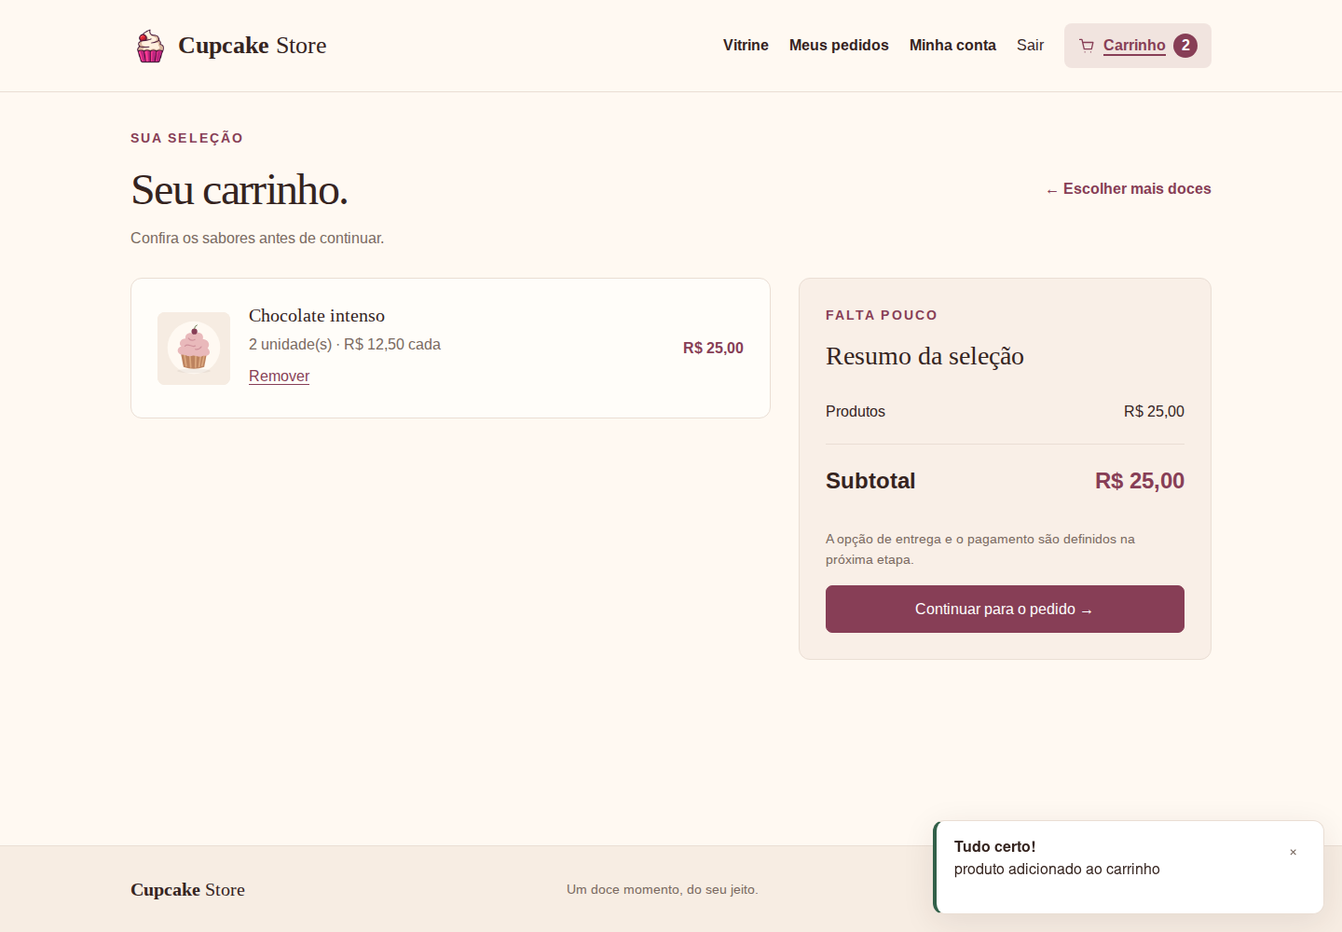
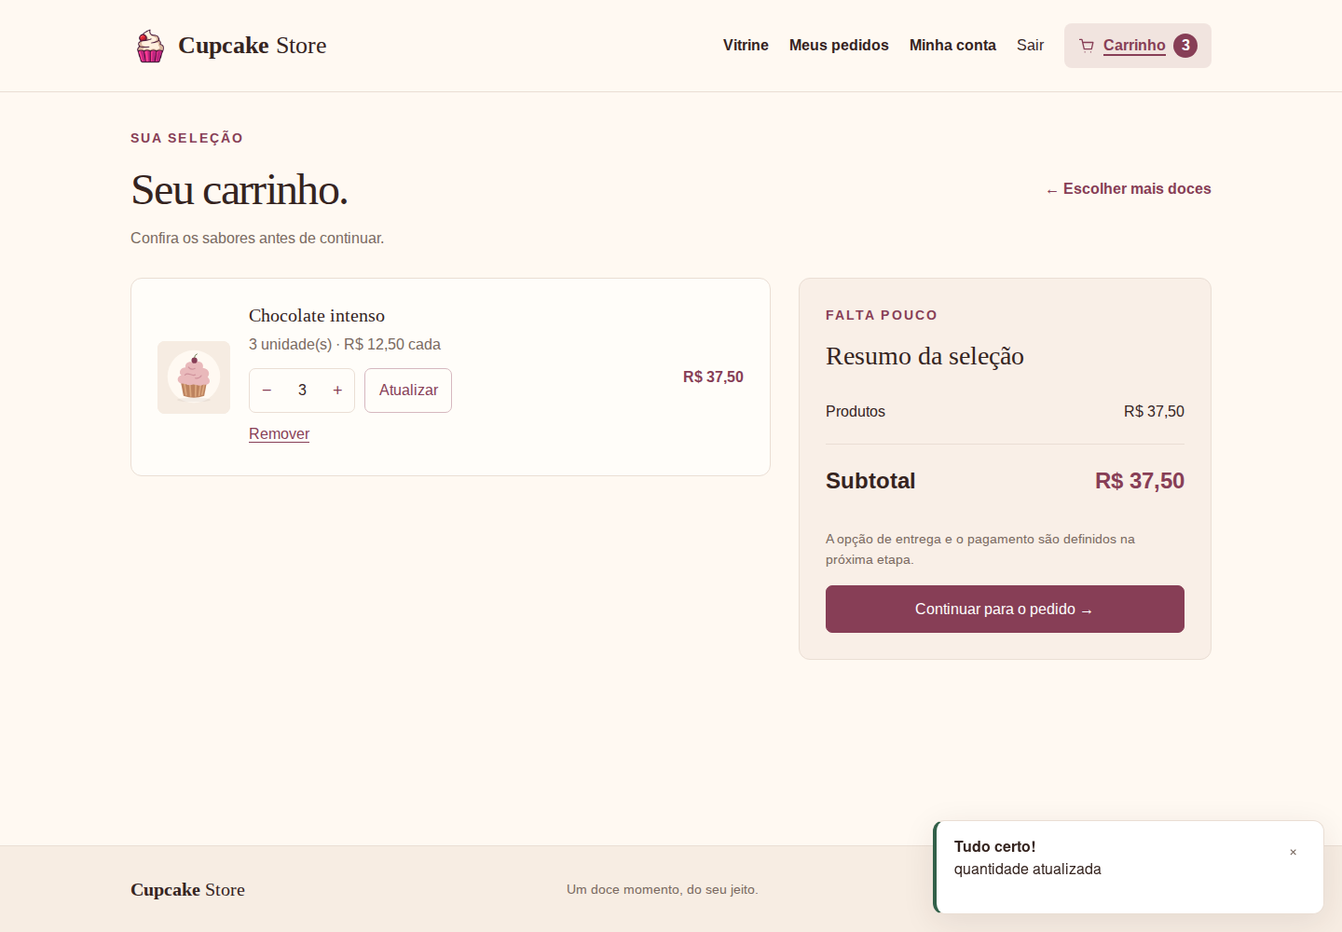
feat(storefront): streamline cart editing and order fulfillment

diff --git a/views/users/users.html b/views/users/users.html
@@ -1,112 +1,52 @@
 <div class="content-header">
-    <div class="container">
-        <div class="row mb-2">
-            <div class="col-sm-6">
-                <h1 class="m-0">Usuários Registrados</h1>
-            </div>
-            <div class="col-sm-6">
-                <ol class="breadcrumb float-sm-right">
-                    <li class="breadcrumb-item">
-                        <a href="/dashboard">Visão geral</a>
-                    </li>
-                    <li class="breadcrumb-item active">Usuários Registrados</li>
-                </ol>
-            </div>
-        </div>
+    <div class="container d-flex justify-content-between align-items-start flex-wrap">
+        <div><h1>Usuários</h1><p class="text-muted">Contas de clientes e acesso da equipe.</p></div>
+        <a href="/users/create" class="btn btn-primary mb-3">Adicionar usuário</a>
     </div>
 </div>
-<section class="content ui-form-page">
+<section class="content">
     <div class="container">
-        <div class="row">
-            <div class="col-12 mx-auto">
-                <div class="card card-primary">
-                    <div class="card-header">
-                        <h3 class="card-title mb-2">Lista de Usuários</h3>
-                        <div class="card-tools">
-                            <form id="filters" method="get">
-                                <div class="row">
-                                    <div class="col-12 mb-2">
-                                        <div class="input-group m-0">
-                                            <input hidden="hidden" id="limit" name="limit"
-                                                   type="text" value="{{.Object.Filter.Pagination.Limit}}">
-                                            <input class="form-control" id="q" name="q" aria-label="Pesquisar usuários por e-mail"
-                                                   placeholder="Pesquisar Usuário" type="text">
-                                            <div class="input-group-append">
-                                                <button class="btn btn-default" type="submit" aria-label="Pesquisar usuários">
-                                                    <i class="fas fa-search"></i>
-                                                </button>
-                                            </div>
-                                        </div>
-                                    </div>
-                                </div>
-                            </form>
-                        </div>
+        <div class="card">
+            <div class="card-body border-bottom">
+                <form method="get" action="/users" role="search">
+                    <input type="hidden" name="limit" value="{{.Object.Filter.Pagination.Limit}}">
+                    <label for="q">Buscar por e-mail</label>
+                    <div class="input-group">
+                        <input class="form-control" type="search" id="q" name="q" value="{{.Object.Filter.User.Email}}" placeholder="E-mail do usuário">
+                        <div class="input-group-append"><button class="btn btn-outline-primary" type="submit">Buscar</button></div>
                     </div>
-                    <div class="card-body table-responsive p-0">
-                        <table class="table table-hover text-nowrap">
-                            <caption class="sr-only">Usuários cadastrados e opções de gerenciamento</caption>
-                            <thead>
-                            <tr>
-                                <th>#</th>
-                                <th>E-mail</th>
-                                <th>Criado Em</th>
-                                <th>Tipo</th>
-                                <th>Status</th>
-                                <th>Primeiro Login</th>
-                                <th>Último Login</th>
-                                <th>Opções</th>
-                            </tr>
-                            </thead>
-                            <tbody>
-                            {{range .Object.Users}}
-                            <tr>
-                                <td>{{.ID}}</td>
-                                <td>
-                                    <a href="/users/user/{{.ID}}">{{.Email}}
-                                        <br/>
-                                    </a>
-                                </td>
-                                <td>{{.CreatedAt|date "02/01/2006 15:04h"}}</td>
-                                <td>{{if .IsStaff}}
-                                    <span class="badge badge-primary">Administrador</span>
-                                    {{else}}
-                                    <span class="badge badge-secondary">Membro</span>{{end}}
-                                </td>
-                                <td>{{if .IsActive}}
-                                    <span class="badge badge-success">Ativo</span>
-                                    {{else}}
-                                    <span class="badge badge-danger">Inativo</span>{{end}}
-                                </td>
-                                <td>{{if .FirstLogin.IsZero }} N/A {{else}} {{.FirstLogin|date "02/01/2006 15:04h"}}
-                                    {{end}}
-                                </td>
-                                <td>{{if .LastLogin.IsZero }} N/A {{else}} {{.LastLogin|date "02/01/2006 15:04h"}}
-                                    {{end}}
-                                </td>
-                                <td>
-                                    {{if not .IsStaff}}
-                                    <a class="btn btn-sm btn-outline-primary mr-2" href="/users/user/{{.ID}}" aria-label="Editar usuário {{.Email}}">
-                                        <i class="fas fa-pen"></i>
-                                    </a>
-                                    <a class="btn btn-sm btn-outline-danger" href="/users/delete/{{.ID}}" aria-label="Excluir usuário {{.Email}}">
-                                        <i class="fa fa-trash"></i>
-                                    </a>
-                                    {{else}}
-                                    -
-                                    {{end}}
-                                </td>
-                            </tr>
-                            {{else}}
-                            <tr><td colspan="8" class="text-center py-5 text-muted">Nenhum usuário encontrado. Experimente outro e-mail na busca.</td></tr>
-                            {{end}}
-                            </tbody>
-                        </table>
-                    </div>
-                    {{template "snippets/pagination" (dict "Pagination" .Object.Filter.Pagination "Query" .Object.Filter.User.Email)}}
-                    <!-- /.card-body -->
-                </div>
-                <!-- /.card -->
+                    {{if .Object.Filter.User.Email}}<a href="/users" class="d-inline-block mt-2">Limpar busca</a>{{end}}
+                </form>
             </div>
+            <div class="table-responsive" tabindex="0" role="region" aria-label="Usuários cadastrados; role horizontalmente para ver todas as colunas">
+                <table class="table table-hover mb-0">
+                    <caption class="sr-only">Usuários cadastrados e opções de gerenciamento</caption>
+                    <thead><tr>
+                        <th scope="col">Conta</th>
+                        <th scope="col">Permissão</th>
+                        <th scope="col">Status</th>
+                        <th scope="col">Último acesso</th>
+                        <th scope="col">Ações</th>
+                    </tr></thead>
+                    <tbody>
+                    {{range .Object.Users}}
+                    <tr>
+                        <td><a href="/users/user/{{.ID}}"><strong>{{.Email}}</strong></a><br><small class="text-muted">#{{.ID}} · Criado em {{.CreatedAt | date "02/01/2006"}}</small></td>
+                        <td><span class="badge {{if .IsStaff}}badge-primary{{else}}badge-secondary{{end}}">{{if .IsStaff}}Administrador{{else}}Cliente{{end}}</span></td>
+                        <td><span class="badge {{if .IsActive}}badge-success{{else}}badge-danger{{end}}">{{if .IsActive}}Ativo{{else}}Inativo{{end}}</span></td>
+                        <td>{{if .LastLogin.IsZero}}Ainda não acessou{{else}}{{.LastLogin | date "02/01/2006 15:04"}}{{end}}</td>
+                        <td class="text-nowrap">
+                            <a class="btn btn-outline-primary btn-sm" href="/users/user/{{.ID}}" aria-label="Editar usuário {{.Email}}">Editar</a>
+                            {{if not .IsStaff}}<a class="btn btn-outline-danger btn-sm" href="/users/delete/{{.ID}}" aria-label="Excluir usuário {{.Email}}">Excluir</a>{{end}}
+                        </td>
+                    </tr>
+                    {{else}}
+                    <tr><td colspan="5" class="text-center py-5 text-muted">Nenhum usuário encontrado. {{if .Object.Filter.User.Email}}Experimente outro e-mail na busca.{{end}}</td></tr>
+                    {{end}}
+                    </tbody>
+                </table>
+            </div>
+            {{template "snippets/pagination" (dict "Pagination" .Object.Filter.Pagination "Query" .Object.Filter.User.Email)}}
         </div>
     </div>
 </section>

diff --git a/views/orders/order.html b/views/orders/order.html
@@ -1,20 +1,24 @@
 {{$order := .Object.Order}}
 <div class="store-container store-page">
-    <nav class="store-breadcrumb" aria-label="Você está em"><a href="/orders">Meus pedidos</a><span aria-hidden="true">/</span><span>Pedido #{{$order.ID}}</span></nav>
-    <div class="store-page-heading"><div><p class="store-eyebrow">{{$order.CreatedAt | date "02/01/2006 · 15:04"}}</p><h1>Pedido #{{$order.ID}}.</h1></div><span class="store-status{{if eq $order.Status "Cancelado"}} store-status-cancelled{{end}}">{{if and (not $order.IsDelivery) (eq $order.Status "Aguardando Envio")}}Pronto para retirada{{else}}{{$order.Status}}{{end}}</span></div>
+    <nav class="store-breadcrumb" aria-label="Você está em"><a href="/orders">{{if .Profile.User.IsStaff}}Pedidos da loja{{else}}Meus pedidos{{end}}</a><span aria-hidden="true">/</span><span>Pedido #{{$order.ID}}</span></nav>
+    <div class="store-page-heading"><div><p class="store-eyebrow">{{$order.CreatedAt | date "02/01/2006 · 15:04"}}</p><h1>Pedido #{{$order.ID}}.</h1></div><span class="store-status{{if eq $order.Status "Cancelado"}} store-status-cancelled{{end}}">{{template "snippets/order-status" $order}}</span></div>
     {{if and .Profile.User.IsStaff (ne $order.Status "Cancelado") (ne $order.Status "Entregue")}}
     <section class="store-panel store-admin-status" aria-labelledby="status-title">
         <h2 id="status-title">Atualizar andamento</h2>
+        <p class="store-help">Escolha a próxima etapa. Alterar o andamento não muda o valor nem a entrega combinados.</p>
+        {{if and (eq $order.PaymentMethod "Pix") (eq $order.Status "Processando Pagamento")}}<p class="store-notice">Confira o recebimento no banco antes de aprovar o pagamento ou iniciar o preparo.</p>{{end}}
         <form method="post" action="/orders/order/{{$order.ID}}" class="store-inline-form">
             <input type="hidden" name="_csrf" value="{{.CSRFToken}}">
             <label class="store-sr-only" for="status">Status do pedido</label>
             <select id="status" name="status" required>
-                {{range list "Em Aberto" "Processando Pagamento" "Pagamento Aprovado" "Preparando Pedido" "Aguardando Envio" "Enviado" "Entregue" "Cancelado"}}
-                <option value="{{.}}" {{if eq $order.Status .}}selected{{end}}>{{if and (not $order.IsDelivery) (eq . "Aguardando Envio")}}Pronto para retirada{{else}}{{.}}{{end}}</option>
+                <option value="" selected disabled>Selecione a próxima etapa</option>
+                {{range $order.AvailableTransitions}}
+                {{if ne . "Cancelado"}}<option value="{{.}}">{{template "snippets/order-status" (dict "Status" . "IsDelivery" $order.IsDelivery)}}</option>{{end}}
                 {{end}}
             </select>
             <button type="submit" class="store-button store-button-primary">Atualizar</button>
         </form>
+        {{range $order.AvailableTransitions}}{{if eq . "Cancelado"}}<a href="/orders/cancel/{{$order.ID}}" class="store-back-link">Cancelar pedido…</a>{{end}}{{end}}
     </section>
     {{end}}
     <div class="store-checkout-grid">
@@ -49,7 +53,7 @@
             <p class="store-help">Forma de pagamento: <strong>{{$order.PaymentMethod}}</strong></p>
             {{if eq $order.Status "Em Aberto"}}<a href="/orders/checkout/{{$order.ShoppingCartID}}" class="store-button store-button-primary store-button-wide">Continuar pedido →</a>{{end}}
             {{if and (eq $order.Status "Processando Pagamento") (eq $order.PaymentMethod "Pix")}}<a href="/orders/payment/{{$order.ShoppingCartID}}" class="store-button store-button-primary store-button-wide">Abrir pagamento Pix ↗</a>{{end}}
-            <a href="/orders" class="store-back-link">← Voltar aos meus pedidos</a>
+            <a href="/orders" class="store-back-link">← {{if .Profile.User.IsStaff}}Voltar aos pedidos da loja{{else}}Voltar aos meus pedidos{{end}}</a>
         </aside>
     </div>
 </div>

diff --git a/web/css/ui.css b/web/css/ui.css
@@ -118,11 +118,14 @@ button, a, input, select, textarea, summary { -webkit-tap-highlight-color: trans
 .ui-admin .btn-outline-primary:hover, .ui-admin .btn-outline-primary:focus, .ui-form-page .btn-outline-primary:hover, .ui-form-page .btn-outline-primary:focus { background: var(--berry); border-color: var(--berry); color: white; }
 .ui-admin-main .btn-default, .ui-form-page .btn-default { color: var(--cocoa); background: white; border-color: var(--line); }
 .ui-admin-main .badge-primary { background: var(--berry); }
+.ui-admin-main .badge-success { background: var(--ui-success); color: white; }
 .ui-admin small, .ui-form-page small, .ui-admin .small, .ui-form-page .small, .ui-admin .badge, .ui-form-page .badge { font-size: var(--ui-text-small); line-height: 1.5; }
 .ui-admin-main .table { font-size: var(--ui-text); }
 .ui-admin-main .table-responsive .table { min-width: 44rem; }
-.ui-admin-main .table td:first-child { min-width: 14rem; }
-.ui-admin-main .table th { background: #fffdf9; border-bottom: 1px solid var(--line); color: var(--muted); font-size: var(--ui-text-small); font-weight: 650; letter-spacing: .025em; padding: 1rem; }
+.ui-admin-main .table td:first-child { min-width: 9rem; }
+.ui-admin-main .table-responsive:focus-visible { outline-offset: -3px; }
+.ui-admin-main .table a { overflow-wrap: anywhere; }
+.ui-admin-main .table th { white-space: nowrap; background: #fffdf9; border-bottom: 1px solid var(--line); color: var(--muted); font-size: var(--ui-text-small); font-weight: 650; letter-spacing: .025em; padding: 1rem; }
 .ui-admin-main .table td { padding: 1rem; border-color: #f0e8e0; vertical-align: middle; }
 .ui-admin-main .table-hover tbody tr:hover { background: #fff9f2; }
 .ui-admin-main .custom-control-input:checked ~ .custom-control-label::before, .ui-form-page .custom-control-input:checked ~ .custom-control-label::before { border-color: var(--berry); background: var(--berry); }

diff --git a/views/orders/admin.html b/views/orders/admin.html
@@ -7,7 +7,7 @@
 <section class="content">
     <div class="container">
         <div class="card">
-            <div class="table-responsive">
+            <div class="table-responsive" tabindex="0" role="region" aria-label="Pedidos da loja; role horizontalmente para ver todas as colunas">
                 <table class="table table-hover mb-0">
                     <caption class="sr-only">Pedidos da loja</caption>
                     <thead><tr>
@@ -23,7 +23,7 @@
                     <tr>
                         <td class="text-nowrap"><strong>#{{.ID}}</strong><br><small class="text-muted">{{.CreatedAt | date "02/01/2006 15:04"}}</small></td>
                         <td>{{.DeliveryDetail.UserFirstName}} {{.DeliveryDetail.UserLastName}}</td>
-                        <td><span class="badge {{if eq .Status "Cancelado"}}badge-secondary{{else if eq .Status "Entregue"}}badge-success{{else}}badge-primary{{end}}">{{if and (not .IsDelivery) (eq .Status "Aguardando Envio")}}Pronto para retirada{{else}}{{.Status}}{{end}}</span></td>
+                        <td><span class="badge {{if eq .Status "Cancelado"}}badge-secondary{{else if eq .Status "Entregue"}}badge-success{{else}}badge-primary{{end}}">{{template "snippets/order-status" .}}</span></td>
                         <td class="text-nowrap">{{money .Total}}</td>
                         <td>{{.PaymentMethod}}<br><small class="text-muted">{{if .IsDelivery}}Entrega no endereço{{else}}Retirada na loja{{end}}</small></td>
                         <td><a href="/orders/order/{{.ID}}" class="btn btn-outline-primary btn-sm" aria-label="Ver pedido {{.ID}}">Ver pedido</a></td>

diff --git a/views/orders/orders.html b/views/orders/orders.html
@@ -3,7 +3,7 @@
     <div class="store-order-list">
         {{range .Object.Orders}}
         <article class="store-panel store-order-card">
-            <div class="store-order-card-heading"><div><p class="store-eyebrow">{{.CreatedAt | date "02/01/2006 · 15:04"}}</p><h2>Pedido #{{.ID}}</h2></div><span class="store-status{{if eq .Status "Cancelado"}} store-status-cancelled{{end}}">{{if and (not .IsDelivery) (eq .Status "Aguardando Envio")}}Pronto para retirada{{else}}{{.Status}}{{end}}</span></div>
+            <div class="store-order-card-heading"><div><p class="store-eyebrow">{{.CreatedAt | date "02/01/2006 · 15:04"}}</p><h2>Pedido #{{.ID}}</h2></div><span class="store-status{{if eq .Status "Cancelado"}} store-status-cancelled{{end}}">{{template "snippets/order-status" .}}</span></div>
             <dl class="store-order-facts"><div><dt>Total</dt><dd>{{money .Total}}</dd></div><div><dt>Pagamento</dt><dd>{{.PaymentMethod}}</dd></div><div><dt>Recebimento</dt><dd>{{if .IsDelivery}}Entrega no endereço{{else}}Retirada na loja{{end}}</dd></div></dl>
             <div class="store-actions">
                 {{if eq .Status "Em Aberto"}}<a href="/orders/checkout/{{.ShoppingCartID}}" class="store-button store-button-primary">Continuar pedido →</a>{{else}}<a href="/orders/order/{{.ID}}" class="store-button store-button-secondary">Ver detalhes →</a>{{end}}

diff --git a/views/shoppingcart/shoppingcart.html b/views/shoppingcart/shoppingcart.html
@@ -8,6 +8,12 @@
                 <li class="store-line-item">
                     <img src="{{if .Product.Image}}{{.Product.Image}}{{else}}/images/cupcake-placeholder.svg{{end}}" alt="" width="88" height="88">
                     <div class="store-line-content"><h2>{{.Product.Name}}</h2><p>{{.Quantity}} unidade(s) · {{money .ItemPrice}} cada</p>
+                        <form action="/cart/items/{{.Product.ID}}/quantity" method="post" class="store-cart-quantity-form">
+                            <input type="hidden" name="_csrf" value="{{$.CSRFToken}}">
+                            {{template "snippets/quantity" (dict "Product" .Product "Quantity" .Quantity)}}
+                            <button type="submit" class="store-button store-button-secondary">Atualizar</button>
+                        </form>
+                        {{if gt .Quantity .Product.CurrentStock}}<p class="store-notice">Restam {{.Product.CurrentStock}} unidade(s). Ajuste a quantidade ou remova o produto para continuar.</p>{{end}}
                         <form action="/cart/remove/{{.Product.ID}}" method="post">
                             <input type="hidden" name="_csrf" value="{{$.CSRFToken}}">
                             <button type="submit" class="store-text-button" aria-label="Remover {{.Product.Name}} do carrinho">Remover</button>

diff --git a/web/js/storefront.js b/web/js/storefront.js
@@ -13,17 +13,18 @@
     document.querySelectorAll('[data-quantity]').forEach(control => {
         const input = control.querySelector('[data-quantity-input]');
         const minimum = Number(input.min) || 1;
-        const maximum = Number(input.max) || Number.MAX_SAFE_INTEGER;
+        const maximum = input.max === '' ? Number.MAX_SAFE_INTEGER : Number(input.max);
         const buttons = control.querySelectorAll('[data-quantity-step]');
         const refresh = () => {
             const value = Number(input.value);
             input.setCustomValidity(input.value && !Number.isSafeInteger(value)
                 ? 'Informe uma quantidade inteira válida.' : '');
             buttons.forEach(button => {
-                button.disabled = Number(button.dataset.quantityStep) < 0
-                    ? value <= minimum : value >= maximum;
+                button.disabled = maximum < minimum || (Number(button.dataset.quantityStep) < 0
+                    ? value <= minimum : value >= maximum);
             });
         };
+        buttons.forEach(button => button.hidden = false);
         buttons.forEach(button => button.addEventListener('click', () => {
             const value = Number(input.value);
             const current = Number.isSafeInteger(value) && value >= minimum ? value : minimum;

diff --git a/views/orders/cancel.html b/views/orders/cancel.html
@@ -1,10 +1,11 @@
 <div class="store-container store-page">
-    <nav class="store-breadcrumb" aria-label="Você está em"><a href="/orders">Meus pedidos</a><span aria-hidden="true">/</span><span>Cancelar pedido</span></nav>
+    <nav class="store-breadcrumb" aria-label="Você está em"><a href="/orders">{{if .Profile.User.IsStaff}}Pedidos da loja{{else}}Meus pedidos{{end}}</a><span aria-hidden="true">/</span><span>Cancelar pedido</span></nav>
     <section class="store-panel store-confirmation">
         <span class="store-empty-symbol" aria-hidden="true">×</span>
         <p class="store-eyebrow">Pedido #{{.Object.ID}}</p>
         <h1>Cancelar este pedido?</h1>
         <p>O pedido de <strong>{{money .Object.Total}}</strong> será cancelado. Para comprar esses produtos depois, você precisará fazer um novo pedido.</p>
+        {{if eq .Object.PaymentMethod "Pix"}}<p class="store-notice">Se o Pix já foi pago, o cancelamento não devolve o dinheiro automaticamente. Combine a devolução com a loja.</p>{{end}}
         <form method="post" action="/orders/cancel/{{.Object.ID}}" class="store-actions">
             <input type="hidden" name="_csrf" value="{{.CSRFToken}}">
             <a href="/orders/order/{{.Object.ID}}" class="store-button store-button-secondary">Manter meu pedido</a>

diff --git a/views/snippets/cart.html b/views/snippets/cart.html
@@ -2,11 +2,7 @@
 <form action="/cart" method="post" class="store-add-form">
     <input type="hidden" name="_csrf" value="{{.CSRFToken}}">
     <input type="hidden" name="id" value="{{.Product.ID}}">
-    <div class="store-quantity" data-quantity>
-        <button type="button" data-quantity-step="-1" aria-label="Diminuir quantidade de {{.Product.Name}}">−</button>
-        <input type="number" id="{{.Product.ID}}-quantity" name="quantity" value="1" min="1" step="1" required inputmode="numeric" data-quantity-input aria-label="Quantidade de {{.Product.Name}}">
-        <button type="button" data-quantity-step="1" aria-label="Aumentar quantidade de {{.Product.Name}}">+</button>
-    </div>
+    {{template "snippets/quantity" (dict "Product" .Product "Quantity" 1)}}
     <button type="submit" class="store-button store-button-primary">Adicionar <span class="store-add-long">ao carrinho</span><span aria-hidden="true"> +</span></button>
 </form>
 {{else}}

diff --git a/web/js/ui.js b/web/js/ui.js
@@ -66,9 +66,6 @@
         button.addEventListener('click', () => button.closest('.ui-notice')?.remove());
     });
 
-    const queryInput = document.querySelector('form[method="get"] input[name="q"]');
-    if (queryInput) queryInput.value = new URLSearchParams(window.location.search).get('q') || '';
-
     document.querySelectorAll('.postal-code, [data-mask="postal-code"]').forEach((input) => {
         input.addEventListener('input', () => {
             const digits = input.value.replace(/\D/g, '').slice(0, 8);
@@ -89,7 +86,6 @@
         const originalImage = previewImage.getAttribute('src');
         let previewURL;
         imageLabel.setAttribute('role', 'status');
-        fileInput.setAttribute('aria-describedby', imageLabel.id);
         const releasePreview = () => {
             if (previewURL) URL.revokeObjectURL(previewURL);
             previewURL = undefined;

diff --git a/views/config/payment.html b/views/config/payment.html
@@ -7,7 +7,7 @@
             <div class="col-sm-6">
                 <ol class="breadcrumb float-sm-right">
                     <li class="breadcrumb-item">
-                        <a href="#">Home</a>
+                        <a href="/dashboard">Visão geral</a>
                     </li>
                     <li class="breadcrumb-item active">Configurar Pagamento</li>
                 </ol>
@@ -19,7 +19,7 @@
 <section class="content">
     <div class="container">
         <div class="row">
-            <div class="col-md-5 mx-auto">
+            <div class="col-lg-8 mx-auto">
                 <div class="card card-primary">
                     <div class="card-header">
                         <h3 class="card-title">Gerenciar as Configurações de Pagamento</h3>

diff --git a/views/config/delivery.html b/views/config/delivery.html
@@ -7,7 +7,7 @@
             <div class="col-sm-6">
                 <ol class="breadcrumb float-sm-right">
                     <li class="breadcrumb-item">
-                        <a href="#">Home</a>
+                        <a href="/dashboard">Visão geral</a>
                     </li>
                     <li class="breadcrumb-item active">Configurar Entrega</li>
                 </ol>
@@ -19,7 +19,7 @@
 <section class="content">
     <div class="container">
         <div class="row">
-            <div class="col-md-5 mx-auto">
+            <div class="col-lg-8 mx-auto">
                 <div class="card card-primary">
                     <div class="card-header">
                         <h3 class="card-title">Gerenciar as Configurações de Entrega</h3>
